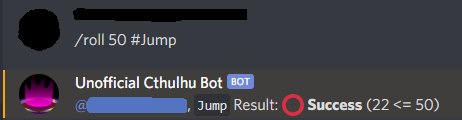
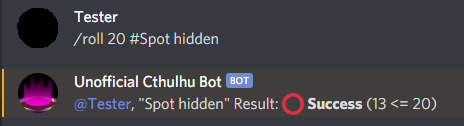
Add example images

diff --git a/README.md b/README.md
@@ -19,6 +19,8 @@ Buy the CoC book first.
 
 <p align="center">
     <img width="462" height="120" src="https://raw.githubusercontent.com/capra314cabra/cthulhu_bot/master/img/example1.png">
+    <img width="462" height="120" src="https://raw.githubusercontent.com/capra314cabra/cthulhu_bot/master/img/example2.png">
+    <img width="462" height="120" src="https://raw.githubusercontent.com/capra314cabra/cthulhu_bot/master/img/example3.png">
 </p>
 
 ## Commands available
